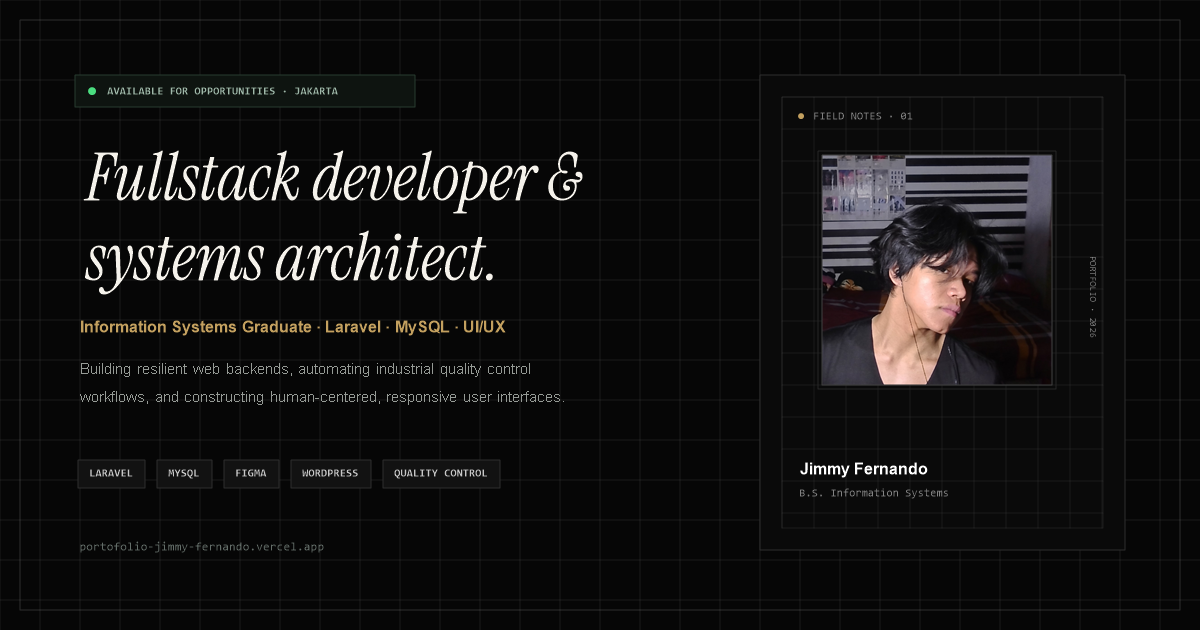
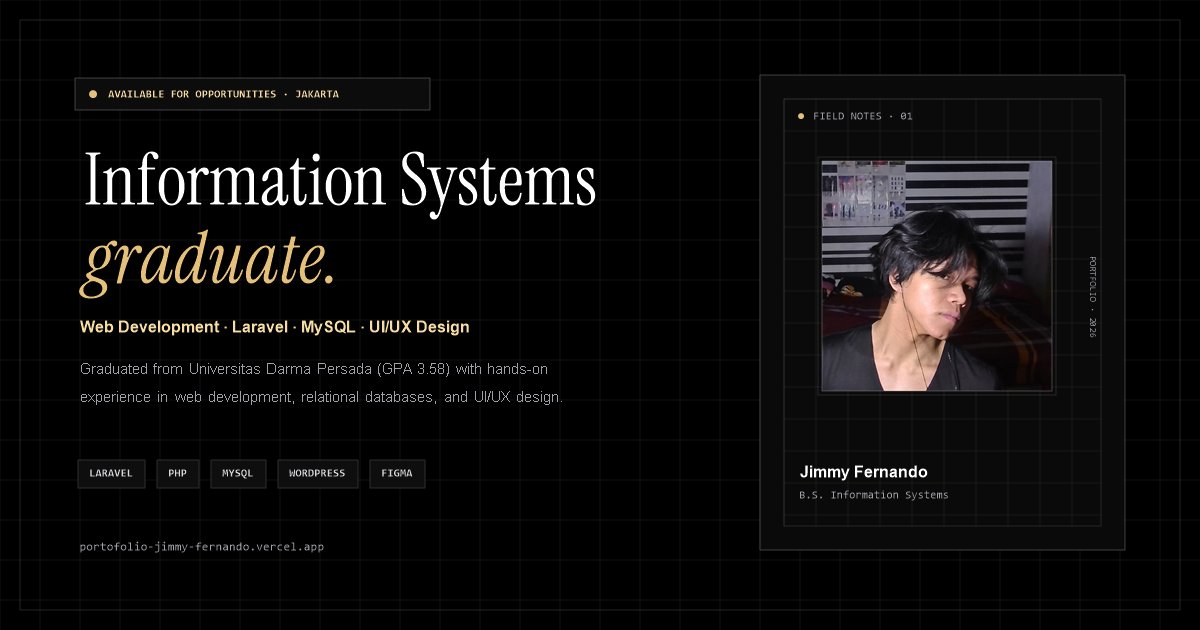
copy: update hero headline to Information Systems graduate and refresh og-image

diff --git a/index.html b/index.html
@@ -4,26 +4,26 @@
   <meta charset="utf-8" />
   <meta name="viewport" content="width=device-width, initial-scale=1" />
   <meta name="theme-color" content="#0d0d0d" />
-  <meta name="description" content="Portfolio of Jimmy Fernando — Fullstack Developer & Systems Architect. Specialized in Laravel, MySQL, and human-centered UI/UX engineering." />
+  <meta name="description" content="Portfolio of Jimmy Fernando — Information Systems Graduate from Jakarta, Indonesia. Skilled in web development, Laravel, MySQL, WordPress, and UI/UX design." />
 
   <!-- Open Graph / Discord / Facebook -->
   <meta property="og:type" content="website" />
   <meta property="og:url" content="https://portofolio-jimmy-fernando.vercel.app/" />
   <meta property="og:title" content="Jimmy Fernando - Portofolio" />
-  <meta property="og:description" content="Fullstack Developer & Systems Architect · Information Systems Graduate. Explore projects, engineering experience, and technical competencies." />
-  <meta property="og:image" content="https://portofolio-jimmy-fernando.vercel.app/og-image.png" />
-  <meta property="og:image:secure_url" content="https://portofolio-jimmy-fernando.vercel.app/og-image.png" />
+  <meta property="og:description" content="Information Systems Graduate · Web Development, MySQL & UI/UX Design. Explore projects, experience, and technical competencies." />
+  <meta property="og:image" content="https://portofolio-jimmy-fernando.vercel.app/og-image.png?v=2" />
+  <meta property="og:image:secure_url" content="https://portofolio-jimmy-fernando.vercel.app/og-image.png?v=2" />
   <meta property="og:image:type" content="image/png" />
   <meta property="og:image:width" content="1200" />
   <meta property="og:image:height" content="630" />
-  <meta property="og:image:alt" content="Jimmy Fernando - Fullstack Developer Portfolio" />
+  <meta property="og:image:alt" content="Jimmy Fernando - Information Systems Graduate Portfolio" />
 
   <!-- Twitter / Discord Large Card Preview -->
   <meta name="twitter:card" content="summary_large_image" />
   <meta name="twitter:url" content="https://portofolio-jimmy-fernando.vercel.app/" />
   <meta name="twitter:title" content="Jimmy Fernando - Portofolio" />
-  <meta name="twitter:description" content="Fullstack Developer & Systems Architect · Information Systems Graduate. Explore projects, engineering experience, and technical competencies." />
-  <meta name="twitter:image" content="https://portofolio-jimmy-fernando.vercel.app/og-image.png" />
+  <meta name="twitter:description" content="Information Systems Graduate · Web Development, MySQL & UI/UX Design. Explore projects, experience, and technical competencies." />
+  <meta name="twitter:image" content="https://portofolio-jimmy-fernando.vercel.app/og-image.png?v=2" />
 
   <meta name="color-scheme" content="light dark" />
   <title>Jimmy Fernando - Portofolio</title>
@@ -489,10 +489,10 @@
           <span class="hero-location">Jakarta, Indonesia</span>
         </div>
         <h1 class="serif hero-title" id="intro-title">
-          Fullstack developer &amp; <em class="serif">systems architect.</em>
+          Information Systems <em class="serif">graduate.</em>
         </h1>
-        <p class="hero-focus">Information Systems Graduate · Laravel · MySQL · UI/UX Engineering</p>
-        <p class="hero-copy">Information Systems graduate from Universitas Darma Persada (GPA 3.58). Dedicated to engineering resilient web backends, automating quality control workflows, and constructing human-centered, responsive user interfaces.</p>
+        <p class="hero-focus">Web Development · Laravel · MySQL · UI/UX Design</p>
+        <p class="hero-copy">Graduated from Universitas Darma Persada (GPA 3.58) with hands-on experience in web development, relational databases, and UI/UX design — dedicated to building practical digital solutions and streamlined workflows.</p>
         <div class="hero-actions">
           <a class="button" href="mailto:jimmyfrnnd12@gmail.com"><span>Get in touch</span><span class="button-arrow" aria-hidden="true">↗</span></a>
           <a class="button button-secondary" href="CV_Jimmy_Fernando.pdf" download="CV_Jimmy_Fernando.pdf"><span>Download Résumé</span><span class="button-arrow" aria-hidden="true">↓</span></a>
@@ -520,9 +520,9 @@
       </div>
       <div class="core-skills-grid">
         <article class="core-skill">
-          <h3>Web &amp; Systems Architecture</h3>
+          <h3>Web &amp; Database Development</h3>
           <span class="subskill-label">Sub-skills</span>
-          <p>Fullstack Engineering · Laravel Framework · PHP · MySQL Database Architecture · RESTful API Integration · WordPress CMS</p>
+          <p>Web Application Development · Laravel Framework · PHP · MySQL Database Design · WordPress CMS</p>
         </article>
         <article class="core-skill">
           <h3>UI/UX &amp; Interaction Design</h3>
